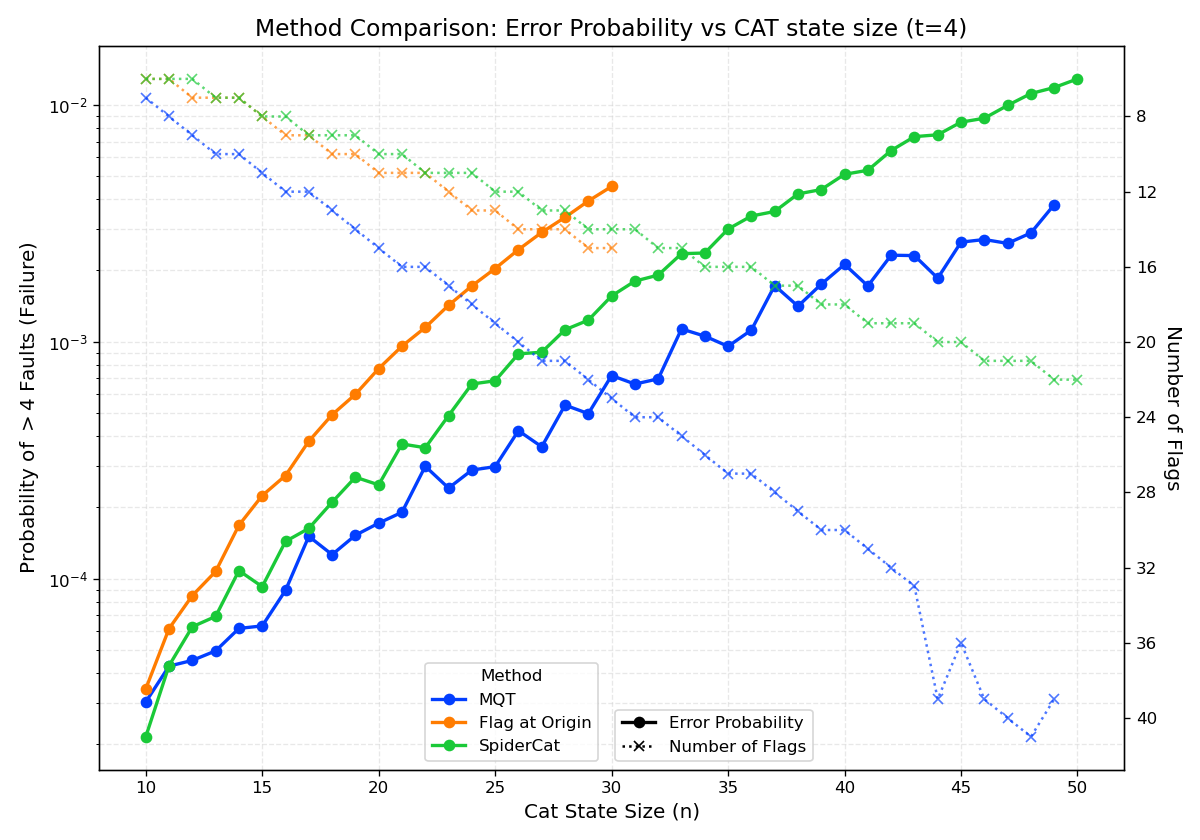
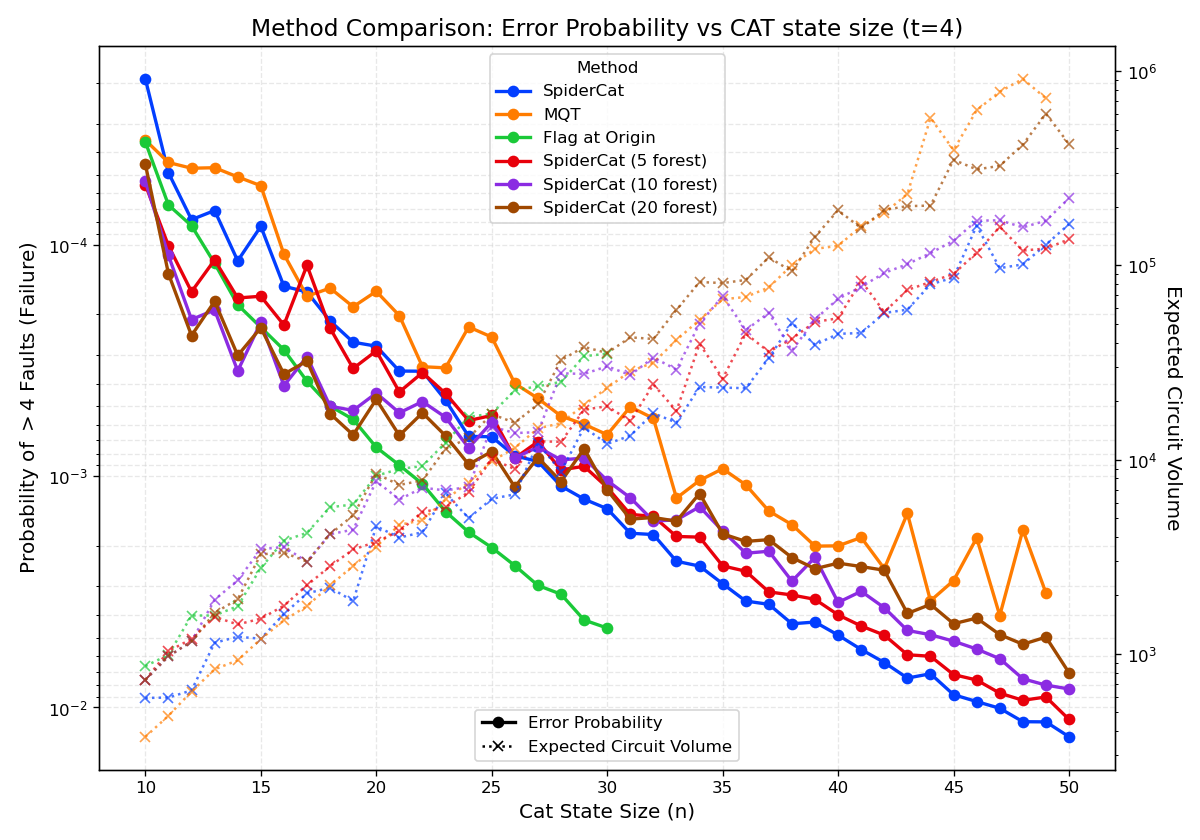
Calculating expected circuit depth for visuals

diff --git a/spidercat/visualise.py b/spidercat/visualise.py
@@ -390,7 +390,7 @@ def visualise_pk_per_t_2(df, n):
     plt.close()
 
 
-def visualise_method_comparison(methods_data_dict, t, second_y_axis='acceptance_rate'):
+def visualise_method_comparison(methods_data_dict, t):
     """
     Compares multiple methods for a fixed fault distance t with Dual Axis.
 
@@ -432,6 +432,7 @@ def visualise_method_comparison(methods_data_dict, t, second_y_axis='acceptance_
             acc_rate = group['acceptance_rate'].iloc[0]
             num_flags = group['num_flags'].iloc[0]
             num_cx = group['num_cx'].iloc[0]
+            depth = group['depth'].iloc[0]
 
             results.append({
                 'n': n,
@@ -441,6 +442,7 @@ def visualise_method_comparison(methods_data_dict, t, second_y_axis='acceptance_
                 'acceptance_rate': acc_rate,
                 'num_flags': num_flags,
                 'num_cx': num_cx,
+                'depth': depth,
             })
 
     if not results:
@@ -474,7 +476,7 @@ def visualise_method_comparison(methods_data_dict, t, second_y_axis='acceptance_
 
         # --- Secondary Axis (Right): Acceptance Rate ---
         ax2.plot(
-            subset['n'], subset[second_y_axis],
+            subset['n'], (subset['n'] + subset['num_flags']) * subset['depth'] / subset['acceptance_rate'],
             color=color, linestyle=':', linewidth=1.5, marker='x', alpha=0.7
         )
 
@@ -496,18 +498,19 @@ def visualise_method_comparison(methods_data_dict, t, second_y_axis='acceptance_
     int_secondary_y_axis = ("num_flags", "num_cx")
 
     # Right Axis Styling
-    ax2.set_ylabel(second_y_axis_label[second_y_axis], fontsize=12, rotation=270, labelpad=15)
-    if second_y_axis in int_secondary_y_axis:
-        ax2.yaxis.set_major_locator(MaxNLocator(integer=True))
-        ax2.invert_yaxis()
-    else:
-        # ax2.yaxis.set_major_formatter(PercentFormatter(xmax=1, decimals=0))
-        ax2.set_yscale('log')
+    ax2.set_ylabel("Expected Circuit Volume", fontsize=12, rotation=270, labelpad=15)
+    # if second_y_axis in int_secondary_y_axis:
+    #     ax2.yaxis.set_major_locator(MaxNLocator(integer=True))
+    #     ax2.invert_yaxis()
+    # else:
+    # ax2.yaxis.set_major_formatter(PercentFormatter(xmax=1, decimals=0))
+    ax2.set_yscale('log')
+    ax1.invert_yaxis()
 
     # Combined Legend Construction
     # Part A: Method Colors
     handles, labels = ax1.get_legend_handles_labels()
-    legend1 = ax1.legend(handles, labels, title="Method", loc='center left', bbox_to_anchor=(0.31, 0.08))
+    legend1 = ax1.legend(handles, labels, title="Method", loc='upper center')
     ax1.add_artist(legend1)  # Preserve first legend
 
     # Part B: Line Styles (Explanation)
@@ -516,8 +519,8 @@ def visualise_method_comparison(methods_data_dict, t, second_y_axis='acceptance_
         Line2D([0], [0], color='black', lw=1.5, linestyle=':', marker='x')
     ]
 
-    style_labels = ['Error Probability', second_y_axis_label[second_y_axis]]
-    ax1.legend(style_lines, style_labels, loc='lower center', bbox_to_anchor=(0.6, 0.0))
+    style_labels = ['Error Probability', "Expected Circuit Volume"]
+    ax1.legend(style_lines, style_labels, loc='lower center')
 
     plt.title(f"Method Comparison: Error Probability vs CAT state size (t={t})", fontsize=14)
     plt.tight_layout()
@@ -558,6 +561,7 @@ def visualise_two_panel_hybrid(methods_data_dict, t):
                 'failure_prob': 1.0 - success_prob,
                 'acceptance_rate': group['acceptance_rate'].iloc[0],
                 'num_flags': group['num_flags'].iloc[0],
+                'depth': group['depth'].iloc[0],
             })
 
     if not results:
@@ -592,10 +596,10 @@ def visualise_two_panel_hybrid(methods_data_dict, t):
         color = method_colors[method]
 
         # Top Panel: Failure Probability
-        ax1.plot(subset['n'], subset['failure_prob'], color=color, linestyle='-', marker='o', label=method)
+        ax1.plot(subset['n'], subset['failure_prob'] / subset['acceptance_rate'], color=color, linestyle='-', marker='o', label=method)
 
         # Bottom Panel (Left Axis): Acceptance Rate
-        ax3.plot(subset['n'], subset['num_flags'], color=color, linestyle='--', marker='s', alpha=0.8, markersize=5)
+        ax3.plot(subset['n'], subset['depth'], color=color, linestyle='--', marker='s', alpha=0.8, markersize=5)
         ax2.plot(subset['n'], subset['acceptance_rate'], color=color, linestyle=':', marker='*', alpha=0.8)
         ax2.set_yscale("log")
 
@@ -613,7 +617,7 @@ def visualise_two_panel_hybrid(methods_data_dict, t):
     ax1.legend(title="Method", loc='best')
 
     # Right Y-Axis (Number of Flags)
-    ax3.set_ylabel("Number of Flags", fontsize=15)
+    ax3.set_ylabel("Depth", fontsize=15)
     ax3.yaxis.set_major_locator(MaxNLocator(integer=True))
 
     # --- Bottom Panel (Acceptance Rate & Flags) ---
@@ -652,6 +656,12 @@ if __name__ == '__main__':
 
     with open(f"simulation_data/simulation_results_t_n_spider-cat_p1.json", "r") as f:
         df_sc_tree = pd.DataFrame(json.load(f))
+    with open(f"simulation_data/simulation_results_t_n_spider-cat_p5.json", "r") as f:
+        df_sc_p5 = pd.DataFrame(json.load(f))
+    with open(f"simulation_data/simulation_results_t_n_spider-cat_p10.json", "r") as f:
+        df_sc_p10 = pd.DataFrame(json.load(f))
+    with open(f"simulation_data/simulation_results_t_n_spider-cat_p20.json", "r") as f:
+        df_sc_p20 = pd.DataFrame(json.load(f))
     with open(f"simulation_data/simulation_results_t_n_flag-at-origin_p1.json", "r") as f:
         df_FAO = pd.DataFrame(json.load(f))
     with open(f"simulation_data/simulation_results_t_n_MQT_p1.json", "r") as f:
@@ -676,18 +686,22 @@ if __name__ == '__main__':
         # "SpiderCat (2-Path)": df_sc_p2,
         # "SpiderCat (3-Path)": df_sc_p3,
         # "SpiderCat (4 forest)": df_sc_p4,
-        # "SpiderCat (10 forest)": df_sc_p10,
+        "SpiderCat (5 forest)": df_sc_p5,
+        "SpiderCat (10 forest)": df_sc_p10,
+        "SpiderCat (20 forest)": df_sc_p20,
     }
     # visualise_method_comparison(methods, t=1)
     # visualise_method_comparison(methods, t=2)
-    # visualise_small_multiples(methods, t=3)
-    # visualise_small_multiples(methods, t=4)
+    visualise_method_comparison(methods, t=3)
+    visualise_method_comparison(methods, t=4)
+    visualise_method_comparison(methods, t=5)
+    visualise_method_comparison(methods, t=6)
     # visualise_method_comparison(methods, t=4, second_y_axis='num_flags')
     # visualise_two_panel_hybrid(methods, t=3)
     # visualise_two_panel_hybrid(methods, t=4)
     # visualise_two_panel_hybrid(methods, t=5)
     # visualise_two_panel_hybrid(methods, t=6)
-    visualise_clean_stacked_comparison(methods)
+    # visualise_clean_stacked_comparison(methods)
     # visualise_method_comparison(methods, t=6, second_y_axis='num_flags')
     # visualise_method_comparison(methods, t=7, second_y_axis='num_flags')
     #
